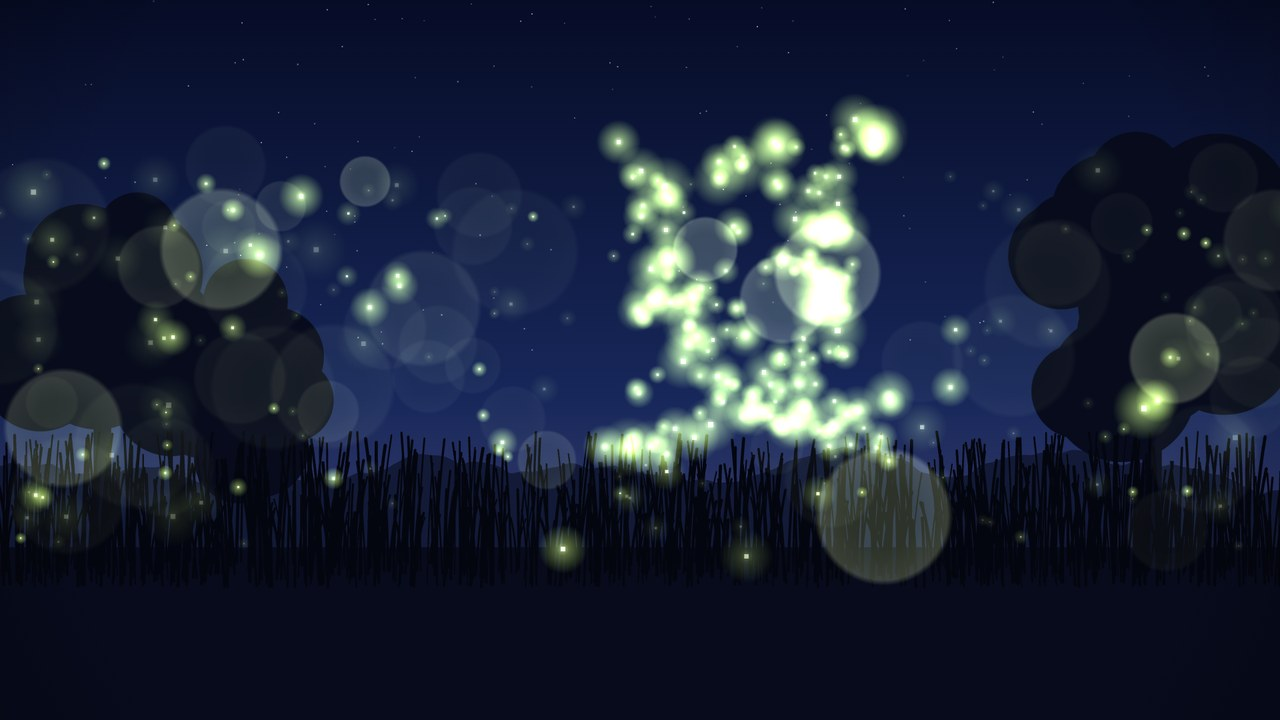
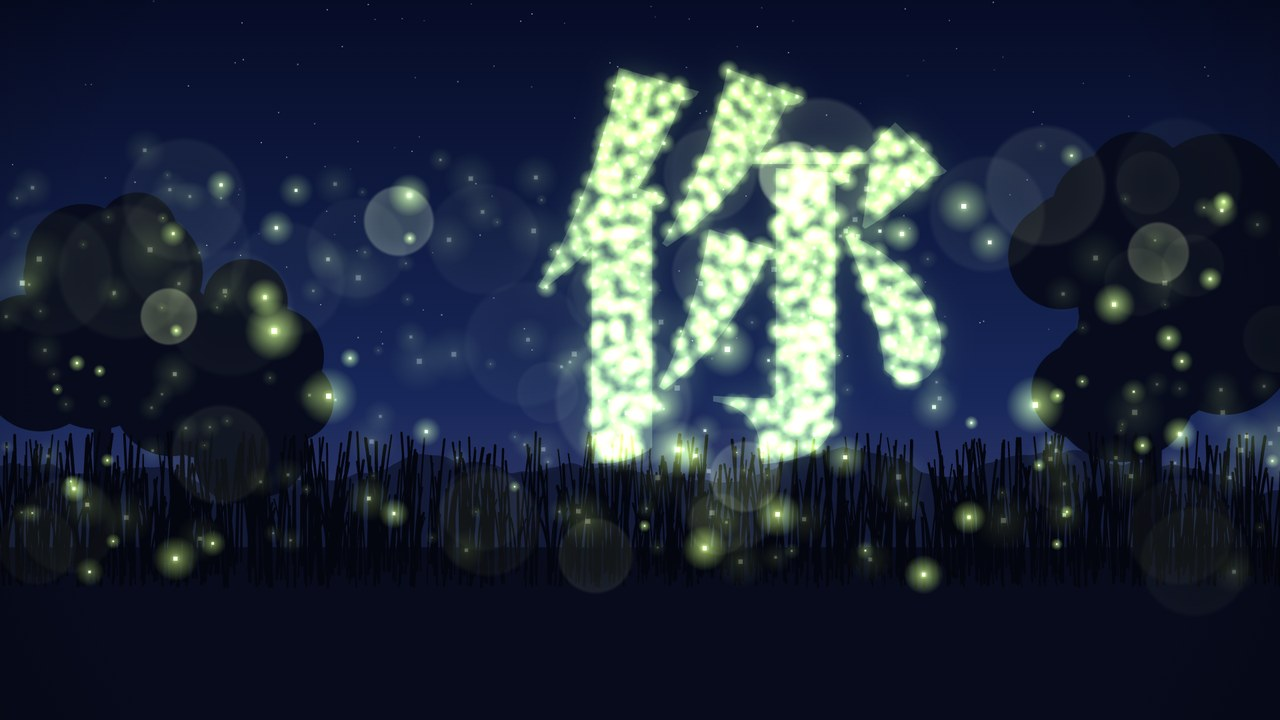
第 2 批第一轮修改：C-172 聚成「你」字并加清晰度，C-173 换成天秤座；lib.js 加 resample、brushStroke，glDraw 可传额外 uniform 和贴图
Claude-Session: https://claude.ai/code/session_01Hy1rvYQqgouHx26CYky3pu

diff --git a/samples/C-173/scene.js b/samples/C-173/scene.js
@@ -1,14 +1,15 @@
-// C-173 星空连线：几百颗星和一条噪声银河画在一张会绕天极缓慢旋转的天幕上，每颗星按自己的频率闪；“纸鸢座”的星按顺序用发光细线一段段连起，笔尖带一个亮点，连好后浮出风筝的线描轮廓和星座名又隐去，最后镜头推近顶上那颗星
+// C-173 星空连线：几百颗星和一条噪声银河画在一张会绕天极缓慢旋转的天幕上，每颗星按自己的频率闪；“天秤座”的主星按顺序用发光细线一段段连起，笔尖带一个亮点，连好后浮出天平的线描轮廓和星座名又隐去，最后镜头推近顶上那颗星
 // 风格提示词：用星空连线风格：深蓝黑夜空里散布着大小亮度不同的星点，细细的发光线一笔一笔把星星连成星座，连好后淡淡浮出线描轮廓又隐去，星点缓慢闪烁、整片天空缓缓旋转，镜头偶尔推近一颗星，配低沉的环境音和细碎的铃声。
 // 题材：信息讲解与产品发布 · 适合：天文科普、关系与网络讲解、浪漫告白
-// 原创星座“纸鸢座”：菱形风筝加一条飘带，单位是星座尺寸
-const KITE = [[0, -1], [.62, -.12], [0, .95], [-.62, -.12], [.2, 1.3], [-.06, 1.62], [.22, 1.95]];
-const EDGES = [[0, 1], [1, 2], [2, 3], [3, 0], [0, 2], [3, 1], [2, 4], [4, 5], [5, 6]];
-const E0 = .35, ED = .19;                           // 第一条线开始的时刻、每条线用时（sound.py 同步）
+// 天秤座：按真实赤经赤纬投影的 6 颗主星（β 在顶上），单位是星座尺寸
+const LIBRA = [[-.02, -.9], [.6, -.24], [-.46, -.36], [.28, .69], [-.5, .97], [-.54, 1.14]];   // β α γ σ υ τ
+const NAMES = ['β', 'α', 'γ', 'σ', 'υ', 'τ'];
+const EDGES = [[3, 1], [1, 0], [0, 2], [2, 1], [2, 4], [4, 5]];
+const E0 = .35, ED = .28;                           // 第一条线开始的时刻、每条线用时（sound.py 同步）
 scene({
   id: 'C-173', name: '星空连线', dur: 4.2, still: 2.65,
   fonts: ["700 40px 'Noto Serif SC'", "400 20px 'JetBrains Mono'"],
-  text: '纸鸢座KITE·',
+  text: '天秤座LIBRA·βαγσυτ',
   init() {
     const R = mulberry32(31), stars = [];
     for (let i = 0; i < 650; i++) stars.push({ x: (R() * 1.6 - .3) * W, y: (R() * 1.6 - .3) * H, m: Math.pow(R(), 3), ph: R() * TAU, fq: .5 + 2 * R(), warm: R() < .2 });
@@ -26,9 +27,9 @@ scene({
     const bg = ctx.createLinearGradient(0, 0, 0, H);
     bg.addColorStop(0, '#03061a'); bg.addColorStop(1, '#0e1a3c');
     ctx.fillStyle = bg; ctx.fillRect(0, 0, W, H);
-    const sc = SHORT * (LAND ? .22 : .25), kx = LAND ? W * .6 : W / 2, ky = LAND ? H * .36 : H * .36;
-    const P = KITE.map(([x, y]) => [kx + x * sc, ky + y * sc]);
-    // 镜头：最后推近纸鸢顶上那颗星
+    const sc = SHORT * (LAND ? .3 : .36), kx = LAND ? W * .62 : W / 2, ky = LAND ? H * .46 : H * .36;
+    const P = LIBRA.map(([x, y]) => [kx + x * sc, ky + y * sc]);
+    // 镜头：最后推近顶上那颗星（β）
     const z = 1 + .55 * eInOutCubic(inv(2.9, 4.2, t));
     ctx.save(); ctx.translate(P[0][0], P[0][1]); ctx.scale(z, z); ctx.translate(-P[0][0], -P[0][1]);
     ctx.translate(W * .5, -H * .9); ctx.rotate(t * .018); ctx.translate(-W * .5, H * .9);     // 绕画面外的天极转
@@ -57,23 +58,25 @@ scene({
       ctx.strokeStyle = `rgba(230,240,255,${lit ? .7 : .3})`; ctx.lineWidth = 1.2 * u;
       ctx.beginPath(); ctx.moveTo(x - r * 4, y); ctx.lineTo(x + r * 4, y); ctx.moveTo(x, y - r * 4); ctx.lineTo(x, y + r * 4); ctx.stroke();
     });
-    // 连好后浮出线描轮廓：风筝面略鼓、飘带上打两个结
+    // 连好后浮出线描轮廓：一杆秤，β 是支点，两端挂着秤盘
     const o = smooth(2.1, 2.6, t) * (1 - smooth(3.2, 3.8, t));
     if (o > 0) {
       ctx.strokeStyle = `rgba(190,215,255,${.55 * o})`; ctx.lineWidth = 1.6 * u; ctx.setLineDash([10 * u, 7 * u]);
-      ctx.beginPath(); ctx.moveTo(...P[0]);
-      for (const [a, b, c] of [[0, 1, .14], [1, 2, .1], [2, 3, .1], [3, 0, .14]]) {
-        const mx = (P[a][0] + P[b][0]) / 2, my = (P[a][1] + P[b][1]) / 2, nx = (P[a][1] - P[b][1]), ny = (P[b][0] - P[a][0]);
-        ctx.quadraticCurveTo(mx + nx * c * -1, my + ny * c * -1, ...P[b]);
+      const [bx, by] = P[0], L = [P[2][0] - .12 * sc, P[2][1] + .04 * sc], Rt = [P[1][0] + .12 * sc, P[1][1] - .04 * sc];
+      ctx.beginPath(); ctx.moveTo(bx, by - .12 * sc); ctx.lineTo(bx, (L[1] + Rt[1]) / 2);          // 支柱
+      ctx.moveTo(...L); ctx.lineTo(...Rt);                                                      // 秤杆
+      for (const [e, pan] of [[L, [P[4][0] + .05 * sc, P[4][1] + .1 * sc]], [Rt, [P[3][0] + .05 * sc, P[3][1] + .1 * sc]]]) {
+        const w = .42 * sc;
+        ctx.moveTo(...e); ctx.lineTo(pan[0] - w, pan[1]); ctx.moveTo(...e); ctx.lineTo(pan[0] + w, pan[1]);
+        ctx.moveTo(pan[0] - w, pan[1]); ctx.quadraticCurveTo(pan[0], pan[1] + .28 * sc, pan[0] + w, pan[1]);   // 秤盘
       }
       ctx.stroke(); ctx.setLineDash([]);
-      ctx.beginPath(); ctx.moveTo(...P[2]);
-      for (let k = 0; k <= 40; k++) { const q = k / 40, y = P[2][1] + q * (P[6][1] - P[2][1]); ctx.lineTo(P[2][0] + Math.sin(q * 7 + t * 2) * 40 * u * q + q * 30 * u, y); }
-      ctx.stroke();
+      ctx.font = `400 ${Math.round(18 * u)}px 'JetBrains Mono'`; ctx.fillStyle = `rgba(170,195,240,${.8 * o})`; ctx.textAlign = 'left';
+      P.forEach(([x, y], i) => ctx.fillText(NAMES[i], x + 12 * u, y - 10 * u));
       ctx.fillStyle = `rgba(225,235,255,${o})`; ctx.textAlign = LAND ? 'right' : 'center';
-      const lx = LAND ? kx - sc * 1.05 : kx, ly = LAND ? ky + sc * .1 : ky + sc * 2.45;
-      ctx.font = `700 ${Math.round(52 * u)}px 'Noto Serif SC'`; ctx.fillText('纸鸢座', lx, ly);
-      ctx.font = `400 ${Math.round(20 * u)}px 'JetBrains Mono'`; ctx.fillStyle = `rgba(170,195,240,${o})`; ctx.fillText('KITE · 7 STARS', lx, ly + 40 * u);
+      const lx = LAND ? kx - sc * .95 : kx, ly = LAND ? ky + sc * .15 : ky + sc * 1.75;
+      ctx.font = `700 ${Math.round(52 * u)}px 'Noto Serif SC'`; ctx.fillText('天秤座', lx, ly);
+      ctx.font = `400 ${Math.round(20 * u)}px 'JetBrains Mono'`; ctx.fillStyle = `rgba(170,195,240,${o})`; ctx.fillText('LIBRA · 6 STARS', lx, ly + 40 * u);
     }
     ctx.restore();
     vignette(ctx, .6, .4);

diff --git a/samples/C-172/scene.js b/samples/C-172/scene.js
@@ -1,10 +1,10 @@
-// C-172 萤火光尘：init 里一次画好暮色天空、树林和草叶剪影；几百个光点各有深度、绕圈半径和呼吸频率，位置由噪声和正弦算出，近处的用大号柔光贴图画成失焦光斑、远处的是清晰小点；2 秒前后一部分光点飞到“夏”字的取样点上聚成字，再散开
+// C-172 萤火光尘：init 里一次画好暮色天空、树林和草叶剪影；几百个光点各有深度、绕圈半径和呼吸频率，位置由噪声和正弦算出，近处的用大号柔光贴图画成失焦光斑、远处的是清晰小点；2 秒前后一部分光点飞到“你”字的取样点上聚成字，同时字形本身亮起一层淡淡的柔光，让笔画更清楚，再散开
 // 风格提示词：用萤火光尘风格：暮色深蓝的草地和树林剪影里，几百颗暖黄绿的小光点慢慢浮起、明灭、绕圈飞行，靠近镜头的光点大而失焦成光斑，远处的细小清晰，每颗按各自的节奏呼吸闪烁，偶尔聚成一个形状又散开，配虫鸣和轻柔钢琴。
 // 题材：3D 与实时图形 · 适合：夏夜回忆、治愈系 MV、童话开场
 scene({
   id: 'C-172', name: '萤火光尘', dur: 4.2, still: 2.75,
   fonts: ["900 40px 'Noto Serif SC'"],
-  text: '夏',
+  text: '你',
   init() {
     const u = SHORT / 1080, R = mulberry32(23), bg = mk(W, H), g = bg.getContext('2d');
     const sky = g.createLinearGradient(0, 0, 0, H);
@@ -38,35 +38,43 @@ scene({
     const bok = mk(128, 128), bg2 = bok.getContext('2d'), rb = bg2.createRadialGradient(64, 64, 30, 64, 64, 62);
     rb.addColorStop(0, 'rgba(230,255,150,.55)'); rb.addColorStop(.85, 'rgba(240,255,170,.7)'); rb.addColorStop(1, 'rgba(240,255,170,0)');
     bg2.fillStyle = rb; bg2.fillRect(0, 0, 128, 128);
-    const fs = LAND ? H * .5 : W * .62, cx = LAND ? W * .58 : W / 2, cy = LAND ? H * .4 : H * .38;
-    const pts = shuffle(samplePoints(q => { q.font = `900 ${fs}px 'Noto Serif SC'`; q.textAlign = 'center'; q.textBaseline = 'middle'; q.fillStyle = '#fff'; q.fillText('夏', cx, cy); }, Math.round(fs / 22), 5), 3);
+    const fs = LAND ? H * .58 : W * .7, cx = LAND ? W * .58 : W / 2, cy = LAND ? H * .37 : H * .36;
+    const pts = shuffle(samplePoints(q => { q.font = `900 ${fs}px 'Noto Serif SC'`; q.textAlign = 'center'; q.textBaseline = 'middle'; q.fillStyle = '#fff'; q.fillText('你', cx, cy); }, Math.round(fs / 34), 5), 3);
+    // 字形本身的一层柔光：光点聚拢时淡淡亮起，让笔画轮廓更清楚
+    const word = mk(W, H), wg = word.getContext('2d');
+    wg.font = `900 ${fs}px 'Noto Serif SC'`; wg.textAlign = 'center'; wg.textBaseline = 'middle';
+    wg.shadowColor = 'rgba(190,255,110,.9)'; wg.shadowBlur = 40 * u; wg.fillStyle = 'rgba(200,250,140,.42)'; wg.fillText('你', cx, cy);
     const flies = [];
-    for (let i = 0; i < 380; i++) {
-      const z = Math.pow(R(), 1.6);                                   // 0 远 … 1 近
+    const n = 300 + pts.length;
+    for (let i = 0; i < n; i++) {
+      const z = i < pts.length ? .1 + .6 * R() : Math.pow(R(), 1.6);                                   // 0 远 … 1 近
       flies.push({ x: R() * W, y: hz - R() * H * (LAND ? .55 : .5) + 60 * u, z, ph: R() * TAU, fq: .35 + .6 * R(), rad: (10 + 40 * R()) * u, w: (R() < .5 ? -1 : 1) * (.4 + .8 * R()),
-        rise: (6 + 18 * R()) * u, gather: z > .08 && z < .78 && i % 3 ? pts[i % pts.length] : null });
+        rise: (6 + 18 * R()) * u, gather: i < pts.length ? pts[i] : null });
     }
-    return { bg, glow, bok, flies };
+    return { bg, glow, bok, flies, word };
   },
   draw(ctx, t, s, f) {
     const u = SHORT / 1080;
     ctx.drawImage(s.bg, 0, 0);
-    const gat = smooth(1.5, 2.4, t) * (1 - smooth(3.0, 3.8, t));
+    const gat = smooth(1.3, 2.2, t) * (1 - smooth(3.3, 4.0, t));
     ctx.save(); ctx.globalCompositeOperation = 'lighter';
+    if (gat > 0) { ctx.globalAlpha = .55 * eInOutCubic(gat); ctx.drawImage(s.word, 0, 0); }
     for (const p of s.flies) {
+      let z = p.z;
       let x = p.x + Math.cos(t * p.w + p.ph) * p.rad + (vnoise(p.ph * 9, t * .4) - .5) * 90 * u * (.4 + p.z);
       let y = p.y - t * p.rise + Math.sin(t * p.w * 1.3 + p.ph) * p.rad * .6;
       const blink = .15 + .85 * Math.pow(Math.max(0, Math.sin(t * TAU * p.fq + p.ph)), 3);
       let b = blink;
       if (p.gather && gat > 0) {
-        const jx = Math.sin(t * 3 + p.ph) * 4 * u, jy = Math.cos(t * 2.6 + p.ph) * 4 * u;
-        x = lerp(x, p.gather[0] + jx, gat); y = lerp(y, p.gather[1] + jy, gat); b = lerp(blink, .75 + .25 * blink, gat);
+        const jx = Math.sin(t * 3 + p.ph) * 1.5 * u, jy = Math.cos(t * 2.6 + p.ph) * 1.5 * u, e = eInOutCubic(gat);
+        x = lerp(x, p.gather[0] + jx, e); y = lerp(y, p.gather[1] + jy, e); b = lerp(blink, .85 + .15 * blink, e);
+        z = lerp(p.z, .17, e);                                       // 聚拢时统一成清晰的中号光点
       }
-      if (p.z > .82) {                                                // 近：大光斑
-        const r = (40 + 70 * (p.z - .82) / .18) * u;
+      if (z > .82) {                                                // 近：大光斑
+        const r = (40 + 70 * (z - .82) / .18) * u;
         ctx.globalAlpha = .35 * b; ctx.drawImage(s.bok, x - r, y - r, 2 * r, 2 * r);
       } else {
-        const r = (3 + 16 * p.z) * u;
+        const r = (3 + 16 * z) * u;
         ctx.globalAlpha = b; ctx.drawImage(s.glow, x - r * 3, y - r * 3, r * 6, r * 6);
         ctx.globalAlpha = Math.min(1, b * 1.3); ctx.fillStyle = '#f4ffd0'; ctx.fillRect(x - r * .25, y - r * .25, r * .5, r * .5);
       }

diff --git a/samples/lib/lib.js b/samples/lib/lib.js
@@ -140,6 +140,39 @@ function drawPartial(ctx, pts, p, close = false) {
   if (close && p >= 1) ctx.closePath();
   ctx.stroke(); return tip;
 }
+// 折线按弧长均匀取 n+1 个点，每点带单位法线 {x, y, nx, ny}；做笔刷、沿线排东西
+function resample(pts, n) {
+  const L = [0]; for (let i = 1; i < pts.length; i++) L.push(L[i - 1] + Math.hypot(pts[i][0] - pts[i - 1][0], pts[i][1] - pts[i - 1][1]));
+  const out = [];
+  for (let k = 0; k <= n; k++) {
+    const d = L[L.length - 1] * k / n; let i = 1; while (i < L.length - 1 && L[i] < d) i++;
+    const q = (d - L[i - 1]) / (L[i] - L[i - 1] || 1), a = pts[i - 1], b = pts[i];
+    const dx = b[0] - a[0], dy = b[1] - a[1], l = Math.hypot(dx, dy) || 1;
+    out.push({ x: a[0] + dx * q, y: a[1] + dy * q, nx: -dy / l, ny: dx / l });
+  }
+  return out;
+}
+// 干笔：沿折线 pts 画宽 w 的一笔，只画前 p（0–1）；由一束细“笔毛”组成，越到末端越干、笔毛断开成飞白。o：{dry 末端干的程度 0–1, seed, color, bristles 根数, taper 是否两头收尖}
+function brushStroke(ctx, pts, w, p = 1, o = {}) {
+  const P = resample(pts, Math.max(8, Math.round(polyLen(pts) / Math.max(2, w * .35))));
+  const n = Math.round(clamp(p) * (P.length - 1)); if (n < 1) return;
+  const NB = o.bristles || 14, seed = o.seed || 1, R = mulberry32(seed), hs = Array.from({ length: NB }, () => R()), dry0 = o.dry ?? .4;
+  ctx.save(); ctx.strokeStyle = o.color || '#14110e'; ctx.lineWidth = w / NB * 1.9; ctx.lineCap = 'butt'; ctx.lineJoin = 'round';
+  for (let j = 0; j < NB; j++) {
+    const off = (j / (NB - 1) - .5) * w, edge = Math.abs(j / (NB - 1) - .5) * 2;
+    ctx.beginPath(); let on = false;
+    for (let i = 0; i <= n; i++) {
+      const q = P[i], sp = i / (P.length - 1);
+      const taper = o.taper === false ? 1 : Math.min(1, .3 + sp * 5, .15 + (1 - sp) * 2.5);
+      const dry = dry0 * smooth(.3, 1, sp) * (1 + edge);
+      const gap = hs[j] < dry || vnoise(j * 5.3 + seed * 17, sp * 7) < dry * .35;
+      const x = q.x + q.nx * off * taper, y = q.y + q.ny * off * taper;
+      if (!gap) { on ? ctx.lineTo(x, y) : ctx.moveTo(x, y); on = true; } else on = false;
+    }
+    ctx.stroke();
+  }
+  ctx.restore();
+}
 // 圆弧折线点，wob 加手绘抖动
 function circlePts(cx, cy, r, n = 64, a0 = 0, a1 = TAU, wob = 0, seed = 0) {
   const p = []; for (let i = 0; i <= n; i++) { const a = a0 + (a1 - a0) * i / n; const rr = r * (1 + wob * (noise1(i * .3 + seed) - .5)); p.push([cx + Math.cos(a) * rr, cy + Math.sin(a) * rr]); } return p;
@@ -201,13 +234,28 @@ precision highp float; uniform float T; uniform vec2 R; out vec4 O;
 ${frag}`));
   gl.linkProgram(pr); GL.progs[name] = pr;
 }
-// 用 w×h 分辨率跑着色器 name，再画到 ctx 的 (x,y,dw,dh)；分辨率可低于 W×H 省时
-function glDraw(ctx, name, t, w, h, x = 0, y = 0, dw = W, dh = H) {
+// 用 w×h 分辨率跑着色器 name，再画到 ctx 的 (x,y,dw,dh)；分辨率可低于 W×H 省时。extra 传额外 uniform：数字 → float，2–4 个数 → vec，更长的数组 → float[]，画布 → sampler2D 贴图
+function glDraw(ctx, name, t, w, h, x = 0, y = 0, dw = W, dh = H, extra = {}) {
   const gl = GL.gl, pr = GL.progs[name];
   if (GL.canvas.width !== w || GL.canvas.height !== h) { GL.canvas.width = w; GL.canvas.height = h; }
   gl.viewport(0, 0, w, h); gl.useProgram(pr);
   const loc = gl.getAttribLocation(pr, 'p'); gl.enableVertexAttribArray(loc); gl.vertexAttribPointer(loc, 2, gl.FLOAT, false, 0, 0);
   gl.uniform1f(gl.getUniformLocation(pr, 'T'), t); gl.uniform2f(gl.getUniformLocation(pr, 'R'), w, h);
+  let unit = 0;
+  for (const [k, v] of Object.entries(extra)) {
+    const loc = gl.getUniformLocation(pr, k);
+    if (typeof v === 'number') gl.uniform1f(loc, v);
+    else if (v.getContext) {                                   // 画布 → 贴图（每次重新上传，画布每帧可变）
+      GL.tex = GL.tex || {};
+      if (!GL.tex[k]) GL.tex[k] = gl.createTexture();
+      gl.activeTexture(gl.TEXTURE0 + unit); gl.bindTexture(gl.TEXTURE_2D, GL.tex[k]);
+      gl.texImage2D(gl.TEXTURE_2D, 0, gl.RGBA, gl.RGBA, gl.UNSIGNED_BYTE, v);
+      gl.texParameteri(gl.TEXTURE_2D, gl.TEXTURE_MIN_FILTER, gl.LINEAR); gl.texParameteri(gl.TEXTURE_2D, gl.TEXTURE_MAG_FILTER, gl.LINEAR);
+      gl.texParameteri(gl.TEXTURE_2D, gl.TEXTURE_WRAP_S, gl.REPEAT); gl.texParameteri(gl.TEXTURE_2D, gl.TEXTURE_WRAP_T, gl.CLAMP_TO_EDGE);
+      gl.uniform1i(loc, unit++);
+    } else if (v.length <= 4) gl['uniform' + v.length + 'f'](loc, ...v);
+    else gl.uniform1fv(loc, v);
+  }
   gl.drawArrays(gl.TRIANGLE_STRIP, 0, 4);
   ctx.drawImage(GL.canvas, x, y, dw, dh);
 }

diff --git a/samples/C-173/sound.py b/samples/C-173/sound.py
@@ -1,14 +1,14 @@
 """C-173 星空连线：低沉的环境长音，每连一条线响一声细碎的铃（五声音阶往上走），轮廓浮现时一组和弦铃声，推近时一阵很轻的风声。"""
 from synth import pad, bell, drone, whoosh, filt, hz
 
-E0, ED, N = .35, .19, 9
+E0, ED, N = .35, .28, 6
 
 
 def score(m):
     d = m.dur + .5
     m.put(filt(drone(hz(38), d, .3), "low", 400), 0, .5)
     m.put(pad([hz(n) for n in (50, 57, 64)], d, 700, a=1.0, rel=1.5), 0, .3)
-    scale = [74, 76, 79, 81, 83, 86, 88, 91, 93]
+    scale = [74, 76, 79, 81, 83, 86]
     for k in range(N):
         m.put(bell(hz(scale[k]), 1.2, 3.0, 1.0), E0 + k * ED, .22, -.5 + k / N)
     for n, pan in ((81, -.4), (86, 0), (91, .4)):

diff --git a/samples/API.md b/samples/API.md
@@ -47,6 +47,8 @@
 - `shuffle(a, seed = 1)` — 按种子原地洗牌
 - `polyLen(pts)` — 折线总长
 - `drawPartial(ctx, pts, p, close = false)` — 只描出折线的前 p（0–1）部分，返回笔尖位置；做笔画逐渐写出
+- `resample(pts, n)` — 折线按弧长均匀取 n+1 个点，每点带单位法线 {x, y, nx, ny}；做笔刷、沿线排东西
+- `brushStroke(ctx, pts, w, p = 1, o = {})` — 干笔：沿折线 pts 画宽 w 的一笔，只画前 p（0–1）；由一束细“笔毛”组成，越到末端越干、笔毛断开成飞白。o：{dry 末端干的程度 0–1, seed, color, bristles 根数, taper 是否两头收尖}
 - `circlePts(cx, cy, r, n = 64, a0 = 0, a1 = TAU, wob = 0, seed = 0)` — 圆弧折线点，wob 加手绘抖动
 - `linePts(x0, y0, x1, y1, n = 12, wob = 0, seed = 0)` — 直线折线点，wob 加手绘抖动
 - `rectPts(x, y, w, h, wob = 0, seed = 0)` — 矩形折线点（顺时针一圈），wob 加手绘抖动
@@ -58,7 +60,7 @@
 
 - `glInit(w, h)` — 准备 WebGL2 离屏画布（init 里调一次）
 - `glProgram(name, frag)` — 编译全屏片元着色器；frag 里可用 uniform T（秒）、R（分辨率），输出写 O
-- `glDraw(ctx, name, t, w, h, x = 0, y = 0, dw = W, dh = H)` — 用 w×h 分辨率跑着色器 name，再画到 ctx 的 (x,y,dw,dh)；分辨率可低于 W×H 省时
+- `glDraw(ctx, name, t, w, h, x = 0, y = 0, dw = W, dh = H, extra = {})` — 用 w×h 分辨率跑着色器 name，再画到 ctx 的 (x,y,dw,dh)；分辨率可低于 W×H 省时。extra 传额外 uniform：数字 → float，2–4 个数 → vec，更长的数组 → float[]，画布 → sampler2D 贴图
 - `S` — 场景列表（播放器读 S[0]）
 - `scene(def)` — 注册场景：{id, name, dur, still, fonts, text, init() → 状态 s, draw(ctx, t, s, f)}
 
